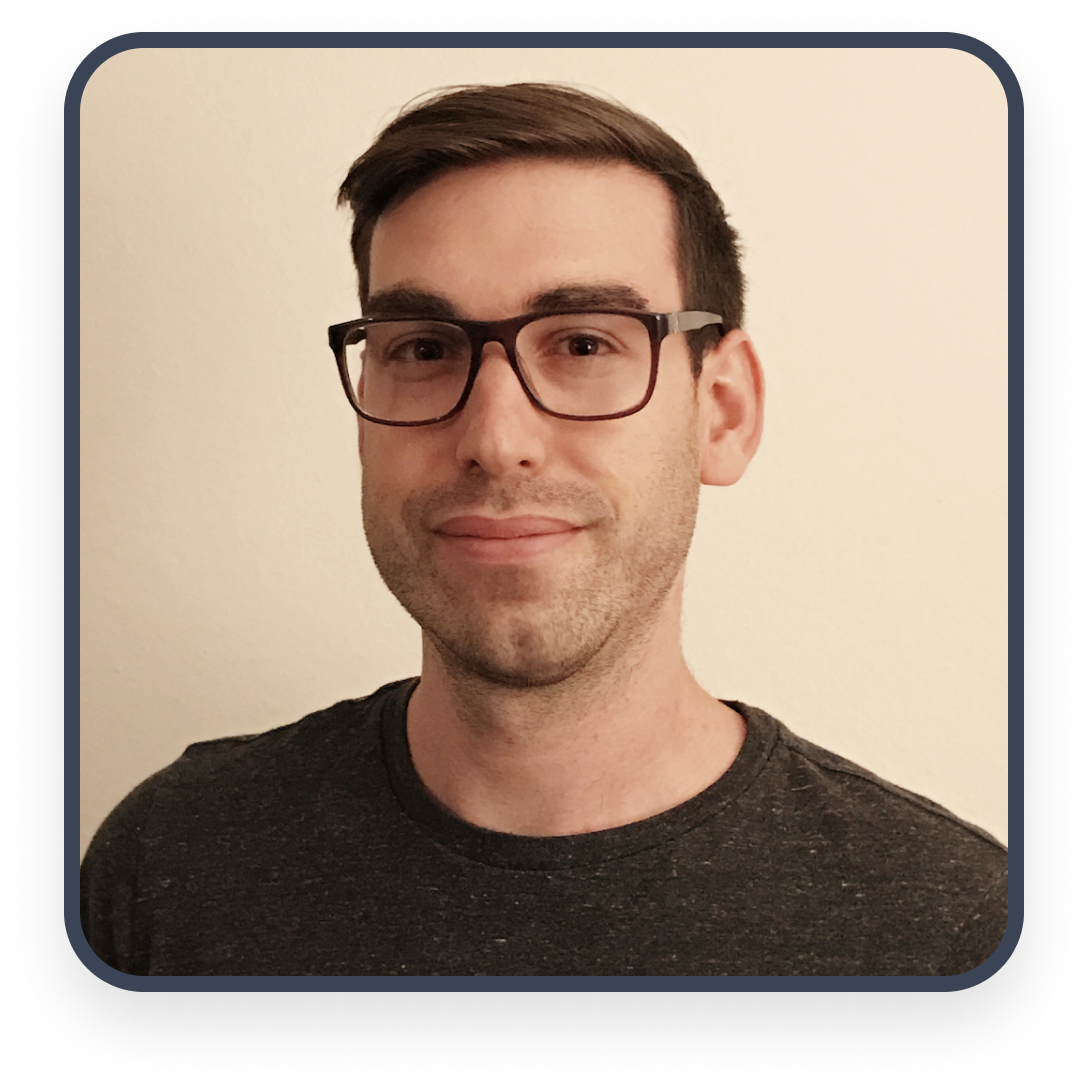
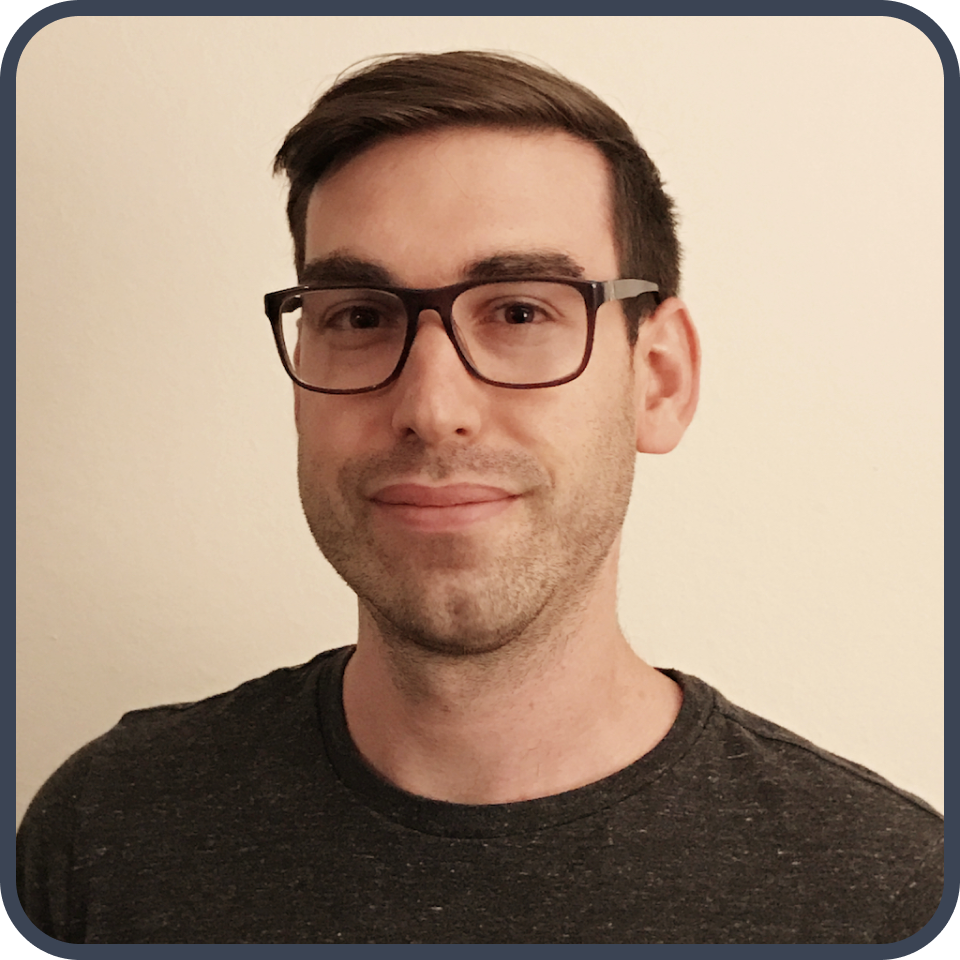
styled hero area

diff --git a/index.html b/index.html
@@ -5,33 +5,35 @@
     <meta http-equiv="X-UA-Compatible" content="IE=edge">
     <meta name="viewport" content="width=device-width, initial-scale=1.0">
     <title>Stephen Kurshner's Portfolio</title>
-    <link rel="stylesheet" href="https://cdnjs.cloudflare.com/ajax/libs/normalize/8.0.1/normalize.min.css">
     <link rel="preconnect" href="https://fonts.googleapis.com">
     <link rel="preconnect" href="https://fonts.gstatic.com" crossorigin>
     <link href="https://fonts.googleapis.com/css2?family=Space+Grotesk:wght@300;400;700&display=swap" rel="stylesheet">
+    <link rel="stylesheet" href="https://cdnjs.cloudflare.com/ajax/libs/normalize/8.0.1/normalize.min.css">
     <link rel="stylesheet" href="style.css" >
 </head>
 <body>
     <!-- Page Header and Hero section -->
     <header>
-      <nav>
-          <div class="nav-wrapper">
-              <img class="logo" src="/images/SKLogobasic.png" alt="Stephen Kurshner's logo">
-              <a href="#contact">Contact Me</a>
-          </div>
-      </nav>
-      <div class="hero">
-          <div class="hero-wrapper">
-              <div class="hero-text">
-                  <h1>Stephen Kurshner</h1>
-                  <h2>Full-Stack Developer/Designer</h2>
-                  <h4>Based in Ventura County, CA</h4>
-              </div>
-              <div class="hero-image-container">
-                  <img src="/images/Profilephoto.png" alt="Stephen Kurshner headshot">
-              </div>
-          </div>
-      </div>  
+        <!-- Navigation - icon & button -->
+        <nav>
+            <div class="nav-wrapper">
+                <img class="logo" src="/images/SKLogobasic.png" alt="Stephen Kurshner's logo">
+                <a href="#contact">Contact Me</a>
+            </div>
+        </nav>
+        <!-- Hero Area -->
+        <div class="hero">
+            <div class="hero-wrapper">
+                <div class="hero-text">
+                    <h1>Stephen Kurshner</h1>
+                    <h2>Full-Stack Developer/Designer</h2>
+                    <h4>Based in Ventura County, CA</h4>
+                </div>
+                <div class="hero-image-container">
+                    <img class ="profile-photo" src="/images/Profilephoto.png" alt="Stephen Kurshner headshot">
+                </div>
+            </div>
+        </div>  
     </header>
     <!-- Main section of page -->
     <main>

diff --git a/style.css b/style.css
@@ -10,9 +10,33 @@
 body {
     font-family: 'Space Grotesk', sans-serif;
     color: var(--dark-blue);
+    font-size: 16px;
 }
 
-/* Header */
+/* Text Styles */
+
+h1 {
+    font-size: 4.5rem;
+    font-weight: 700;
+    margin: 0px;
+}
+
+h2 {
+    font-size: 2rem;
+    font-weight: 400;
+    margin: 16px 0px;
+}
+
+h3 {
+    font-size: 1.5rem;
+}
+
+h4 {
+    font-size: 1rem;
+    font-weight: 300;
+}
+
+/* Header - Nav */
 
 nav {
     background-color: var(--light-gray);
@@ -20,7 +44,7 @@ nav {
 }
 
 .nav-wrapper {
-    width: 80%;
+    width: 85%;
     max-width: 1280px;
     height: 48px;
     margin: auto;
@@ -30,6 +54,7 @@ nav {
 
 .logo {
     height: 48px;
+    box-shadow: 0px 4px 8px rgba(0, 0, 0, 0.08);
 }
 
 nav a {
@@ -37,17 +62,19 @@ nav a {
     padding: 12px 32px;
     color: var(--dark-blue);
     text-decoration: none;
-    font-size: 18px;
+    font-size: 1.125rem;
     font-weight: 700;
     line-height: 16px;
     border: 4px solid var(--main-blue);
     border-radius: 8px;
+    box-shadow: 0px 4px 8px rgba(0, 0, 0, 0.08);
     transition: ease-in-out 200ms;
 }
 
 nav a:hover {
     background-color: var(--main-blue);
     color: white;
+    box-shadow: 0px 12px 24px rgba(0, 0, 0, 0.12);
 }
 
 nav a:active {
@@ -55,9 +82,37 @@ nav a:active {
     border: 4px solid var(--dark-blue);
 }
 
+/* Header - Hero */
+
 .hero {
     background-color: var(--medium-gray);   
-    padding: 80px;
+    padding: 80px 0px;
     border-bottom: 8px solid #3B4454;
+}
+
+.hero-wrapper {
+    width: 85%;
+    max-width: 1280px;
+    margin: auto;
+    display: flex;
+    justify-content: space-between;
+    align-items: center;
+}
+
+.hero-image-container {
+    height: 240px;
+    width: 240px;
+    background-color: var(--main-blue);
+    border-radius: 20px;
+    box-shadow: 0px 8px 16px rgba(0, 0, 0, 0.12);
+}
+
+.profile-photo {
+    height: 240px;
+    width: 240px;
+    position: relative;
+    bottom: 8px;
+    right: 8px;
+
 }
 
